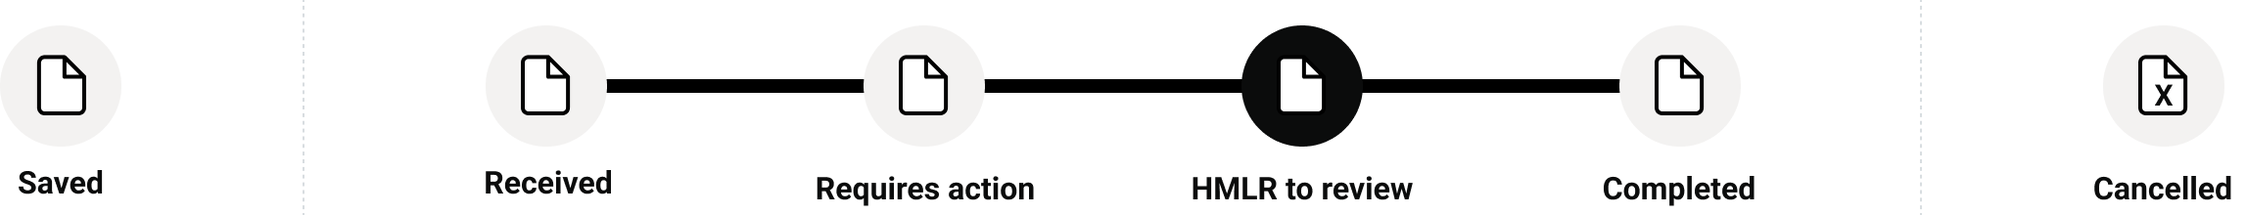
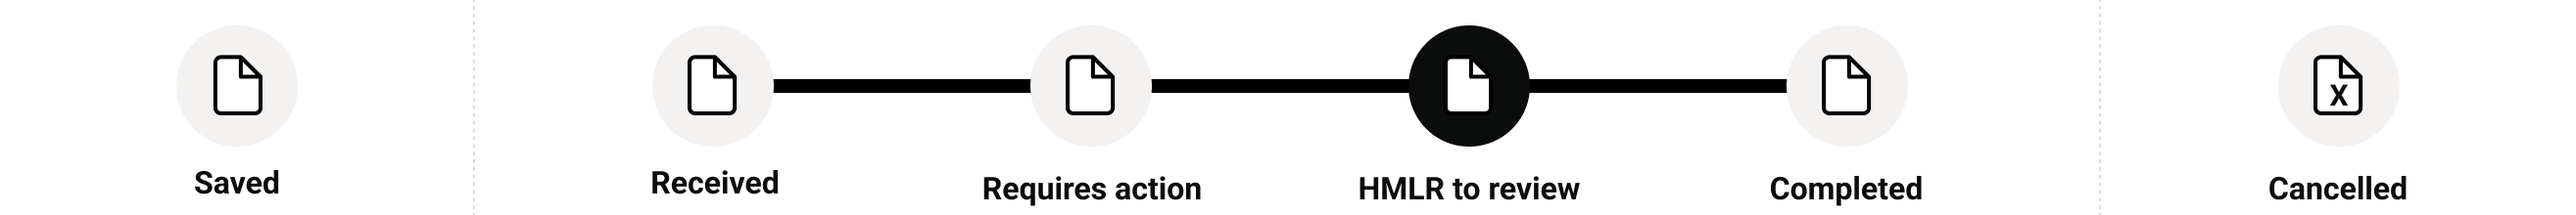
design updates

diff --git a/app/views/projects/notifications/design/applications/application-review-template1.html b/app/views/projects/notifications/design/applications/application-review-template1.html
@@ -67,6 +67,9 @@ display:none;
 
 }
 
+.accordionGraphic {
+        padding:30px 0px !Important;
+    }
 
 </style>
 
@@ -125,11 +128,11 @@ display:none;
 
         <details class="govuk-details" data-module="govuk-details" open>
             <summary class="govuk-details__summary">
-              <span class="govuk-details__summary-text" >
+              <span class="govuk-details__summary-text">
                 Application progress
               </span>
             </summary>
-            <div class="govuk-details__text">
+            <div class="govuk-details__text accordionGraphic">
                 <div class="progressGraphicMiddle">
                     <img src="/public/images/applicationProgress_HMLRtoReview.png" class="progressGraphic" alt="documentGrey" style="">
                 </div>

diff --git a/app/views/projects/notifications/design/applications/application-template4.html b/app/views/projects/notifications/design/applications/application-template4.html
@@ -93,6 +93,10 @@ display:none;
     background: #ffffff; 
 }
 
+.accordionGraphic {
+        padding:30px 0px !Important;
+    }
+
 
 </style>
 
@@ -154,7 +158,7 @@ display:none;
                     Application progress
                     </div>
                 </div>
-                <div class="contentBoxContent">
+                <div class="contentBoxContent accordionGraphic">
                     <div class="progressGraphicMiddle">
                         <img src="/public/images/applicationProgress_requiresAction.png" class="progressGraphic" alt="documentGrey" style="">
                     </div>

diff --git a/app/views/projects/notifications/design/applications/application-template3.html b/app/views/projects/notifications/design/applications/application-template3.html
@@ -103,6 +103,10 @@ display:none;
     padding-right: 0%;
 }
 
+.accordionGraphic {
+        padding:30px 0px !Important;
+    }
+
 </style>
 
 
@@ -163,7 +167,7 @@ display:none;
                     Application progress
                     </div>
                 </div>
-                <div class="contentBoxContent">
+                <div class="contentBoxContent accordionGraphic">
                     <div class="progressGraphicMiddle">
                         <img src="/public/images/applicationProgress_requiresAction.png" class="progressGraphic" alt="documentGrey" style="">
                     </div>

diff --git a/app/views/projects/notifications/design/applications/application-template5.html b/app/views/projects/notifications/design/applications/application-template5.html
@@ -104,6 +104,10 @@ display:none;
     padding-right: 0%;
 }
 
+.accordionGraphic {
+        padding:30px 0px !Important;
+    }
+
 </style>
 
 
@@ -164,7 +168,7 @@ display:none;
                     Application progress
                     </div>
                 </div>
-                <div class="contentBoxContent">
+                <div class="contentBoxContent accordionGraphic">
                     <div class="progressGraphicMiddle">
                         <img src="/public/images/applicationProgress_requiresAction.png" class="progressGraphic" alt="documentGrey" style="">
                     </div>

diff --git a/app/views/projects/notifications/design/applications/application-template6.html b/app/views/projects/notifications/design/applications/application-template6.html
@@ -104,6 +104,10 @@ display:none;
     padding-right: 0%;
 }
 
+.accordionGraphic {
+        padding:30px 0px !Important;
+    }
+
 </style>
 
 
@@ -164,7 +168,7 @@ display:none;
                     Application progress
                     </div>
                 </div>
-                <div class="contentBoxContent">
+                <div class="contentBoxContent accordionGraphic">
                     <div class="progressGraphicMiddle">
                         <img src="/public/images/applicationProgress_requiresAction.png" class="progressGraphic" alt="documentGrey" style="">
                     </div>

diff --git a/app/views/projects/notifications/design/applications/application-template2.html b/app/views/projects/notifications/design/applications/application-template2.html
@@ -93,6 +93,9 @@ display:none;
     background: #ffffff; 
 }
 
+.accordionGraphic {
+        padding:30px 0px !Important;
+    }
 
 </style>
 
@@ -154,7 +157,7 @@ display:none;
                     Application progress
                     </div>
                 </div>
-                <div class="contentBoxContent">
+                <div class="contentBoxContent accordionGraphic">
                     <div class="progressGraphicMiddle">
                         <img src="/public/images/applicationProgress_requiresAction.png" class="progressGraphic" alt="documentGrey" style="">
                     </div>

diff --git a/app/views/projects/notifications/design/applications/application-review-template3.html b/app/views/projects/notifications/design/applications/application-review-template3.html
@@ -103,6 +103,10 @@ display:none;
     padding-right: 0%;
 }
 
+.accordionGraphic {
+        padding:30px 0px;
+    }
+
 </style>
 
 
@@ -163,7 +167,7 @@ display:none;
                     Application progress
                     </div>
                 </div>
-                <div class="contentBoxContent">
+                <div class="contentBoxContent accordionGraphic">
                     <div class="progressGraphicMiddle">
                         <img src="/public/images/applicationProgress_HMLRtoReview.png" class="progressGraphic" alt="documentGrey" style="">
                     </div>

diff --git a/app/views/projects/notifications/design/applications/application-review-template2.html b/app/views/projects/notifications/design/applications/application-review-template2.html
@@ -93,6 +93,9 @@ display:none;
     background: #ffffff; 
 }
 
+.accordionGraphic {
+        padding:30px 0px;
+    }
 
 </style>
 
@@ -154,7 +157,7 @@ display:none;
                     Application progress
                     </div>
                 </div>
-                <div class="contentBoxContent">
+                <div class="contentBoxContent accordionGraphic">
                     <div class="progressGraphicMiddle">
                         <img src="/public/images/applicationProgress_HMLRtoReview.png" class="progressGraphic" alt="documentGrey" style="">
                     </div>

diff --git a/app/views/projects/notifications/design/applications/application-template1.html b/app/views/projects/notifications/design/applications/application-template1.html
@@ -67,7 +67,9 @@ display:none;
 
 }
 
-
+.accordionGraphic {
+        padding:30px 0px !important;
+    }
 </style>
 
 
@@ -129,7 +131,7 @@ display:none;
                 Application progress
               </span>
             </summary>
-            <div class="govuk-details__text">
+            <div class="govuk-details__text accordionGraphic">
                 <div class="progressGraphicMiddle">
                     <img src="/public/images/applicationProgress_requiresAction.png" class="progressGraphic" alt="documentGrey" style="">
                 </div>

diff --git a/app/assets/sass/notifications.scss b/app/assets/sass/notifications.scss
@@ -1390,3 +1390,4 @@ padding: 0px 15px 0px 30px;
     .govuk-table__header {
         vertical-align: top;
     }
+
